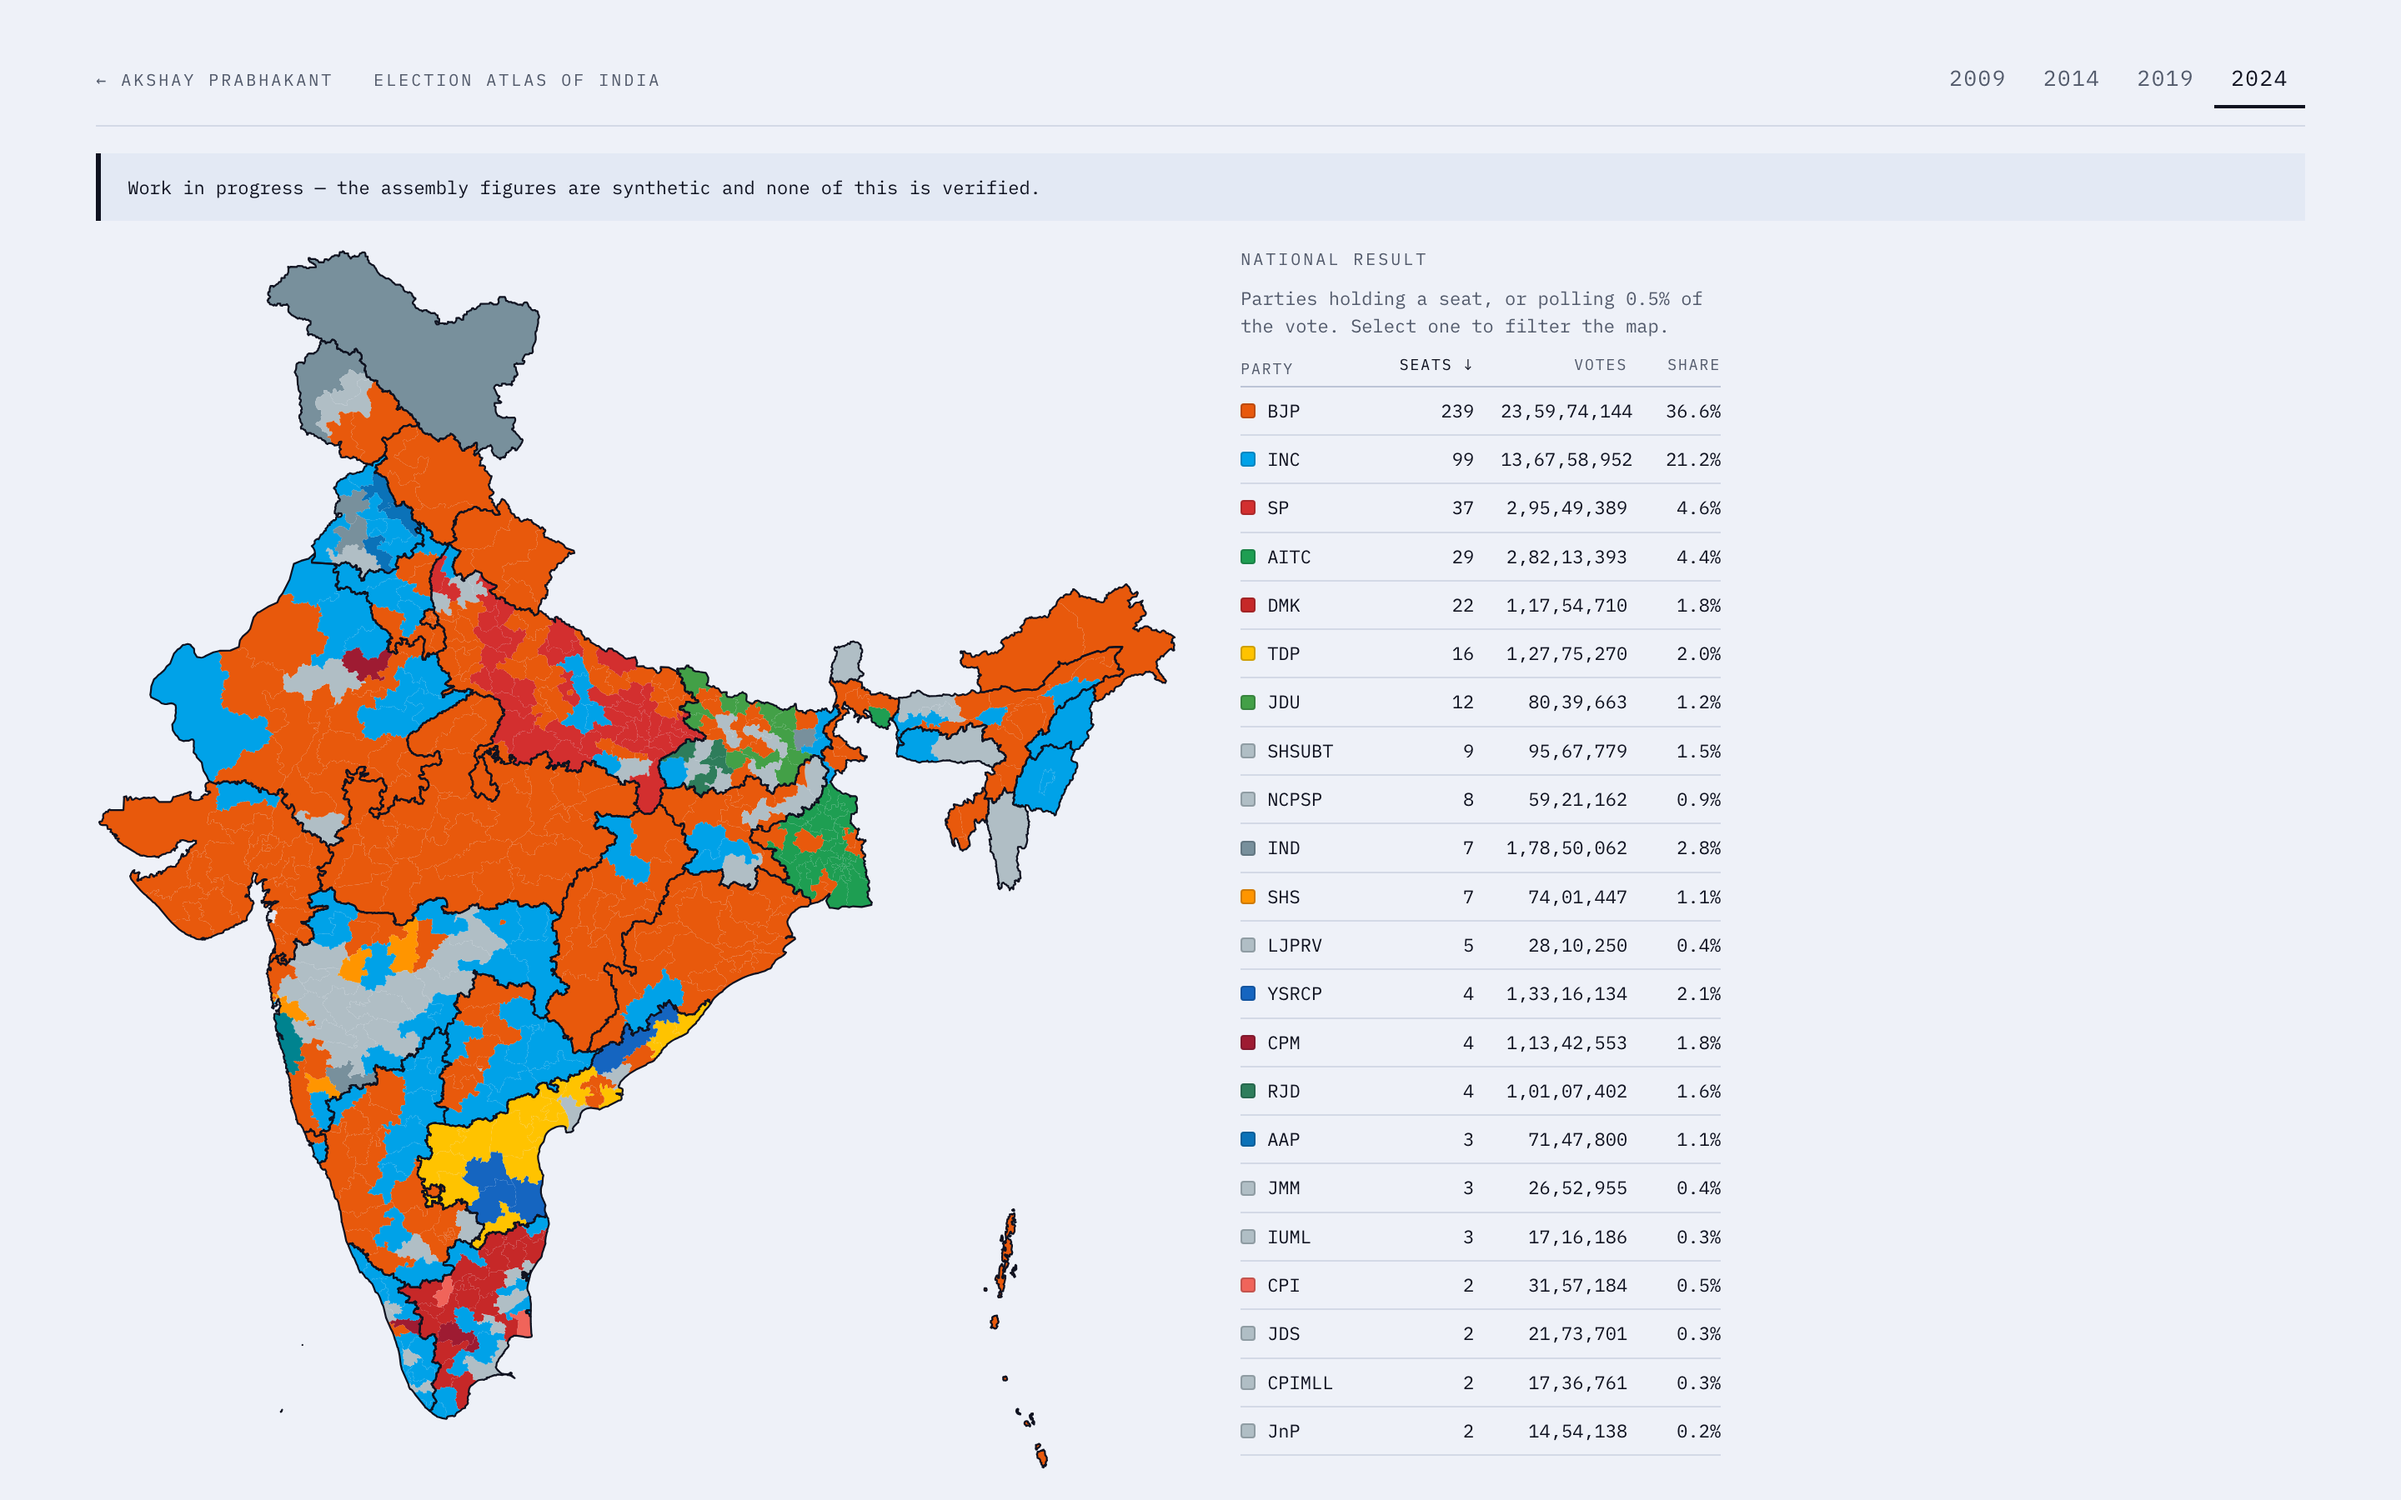
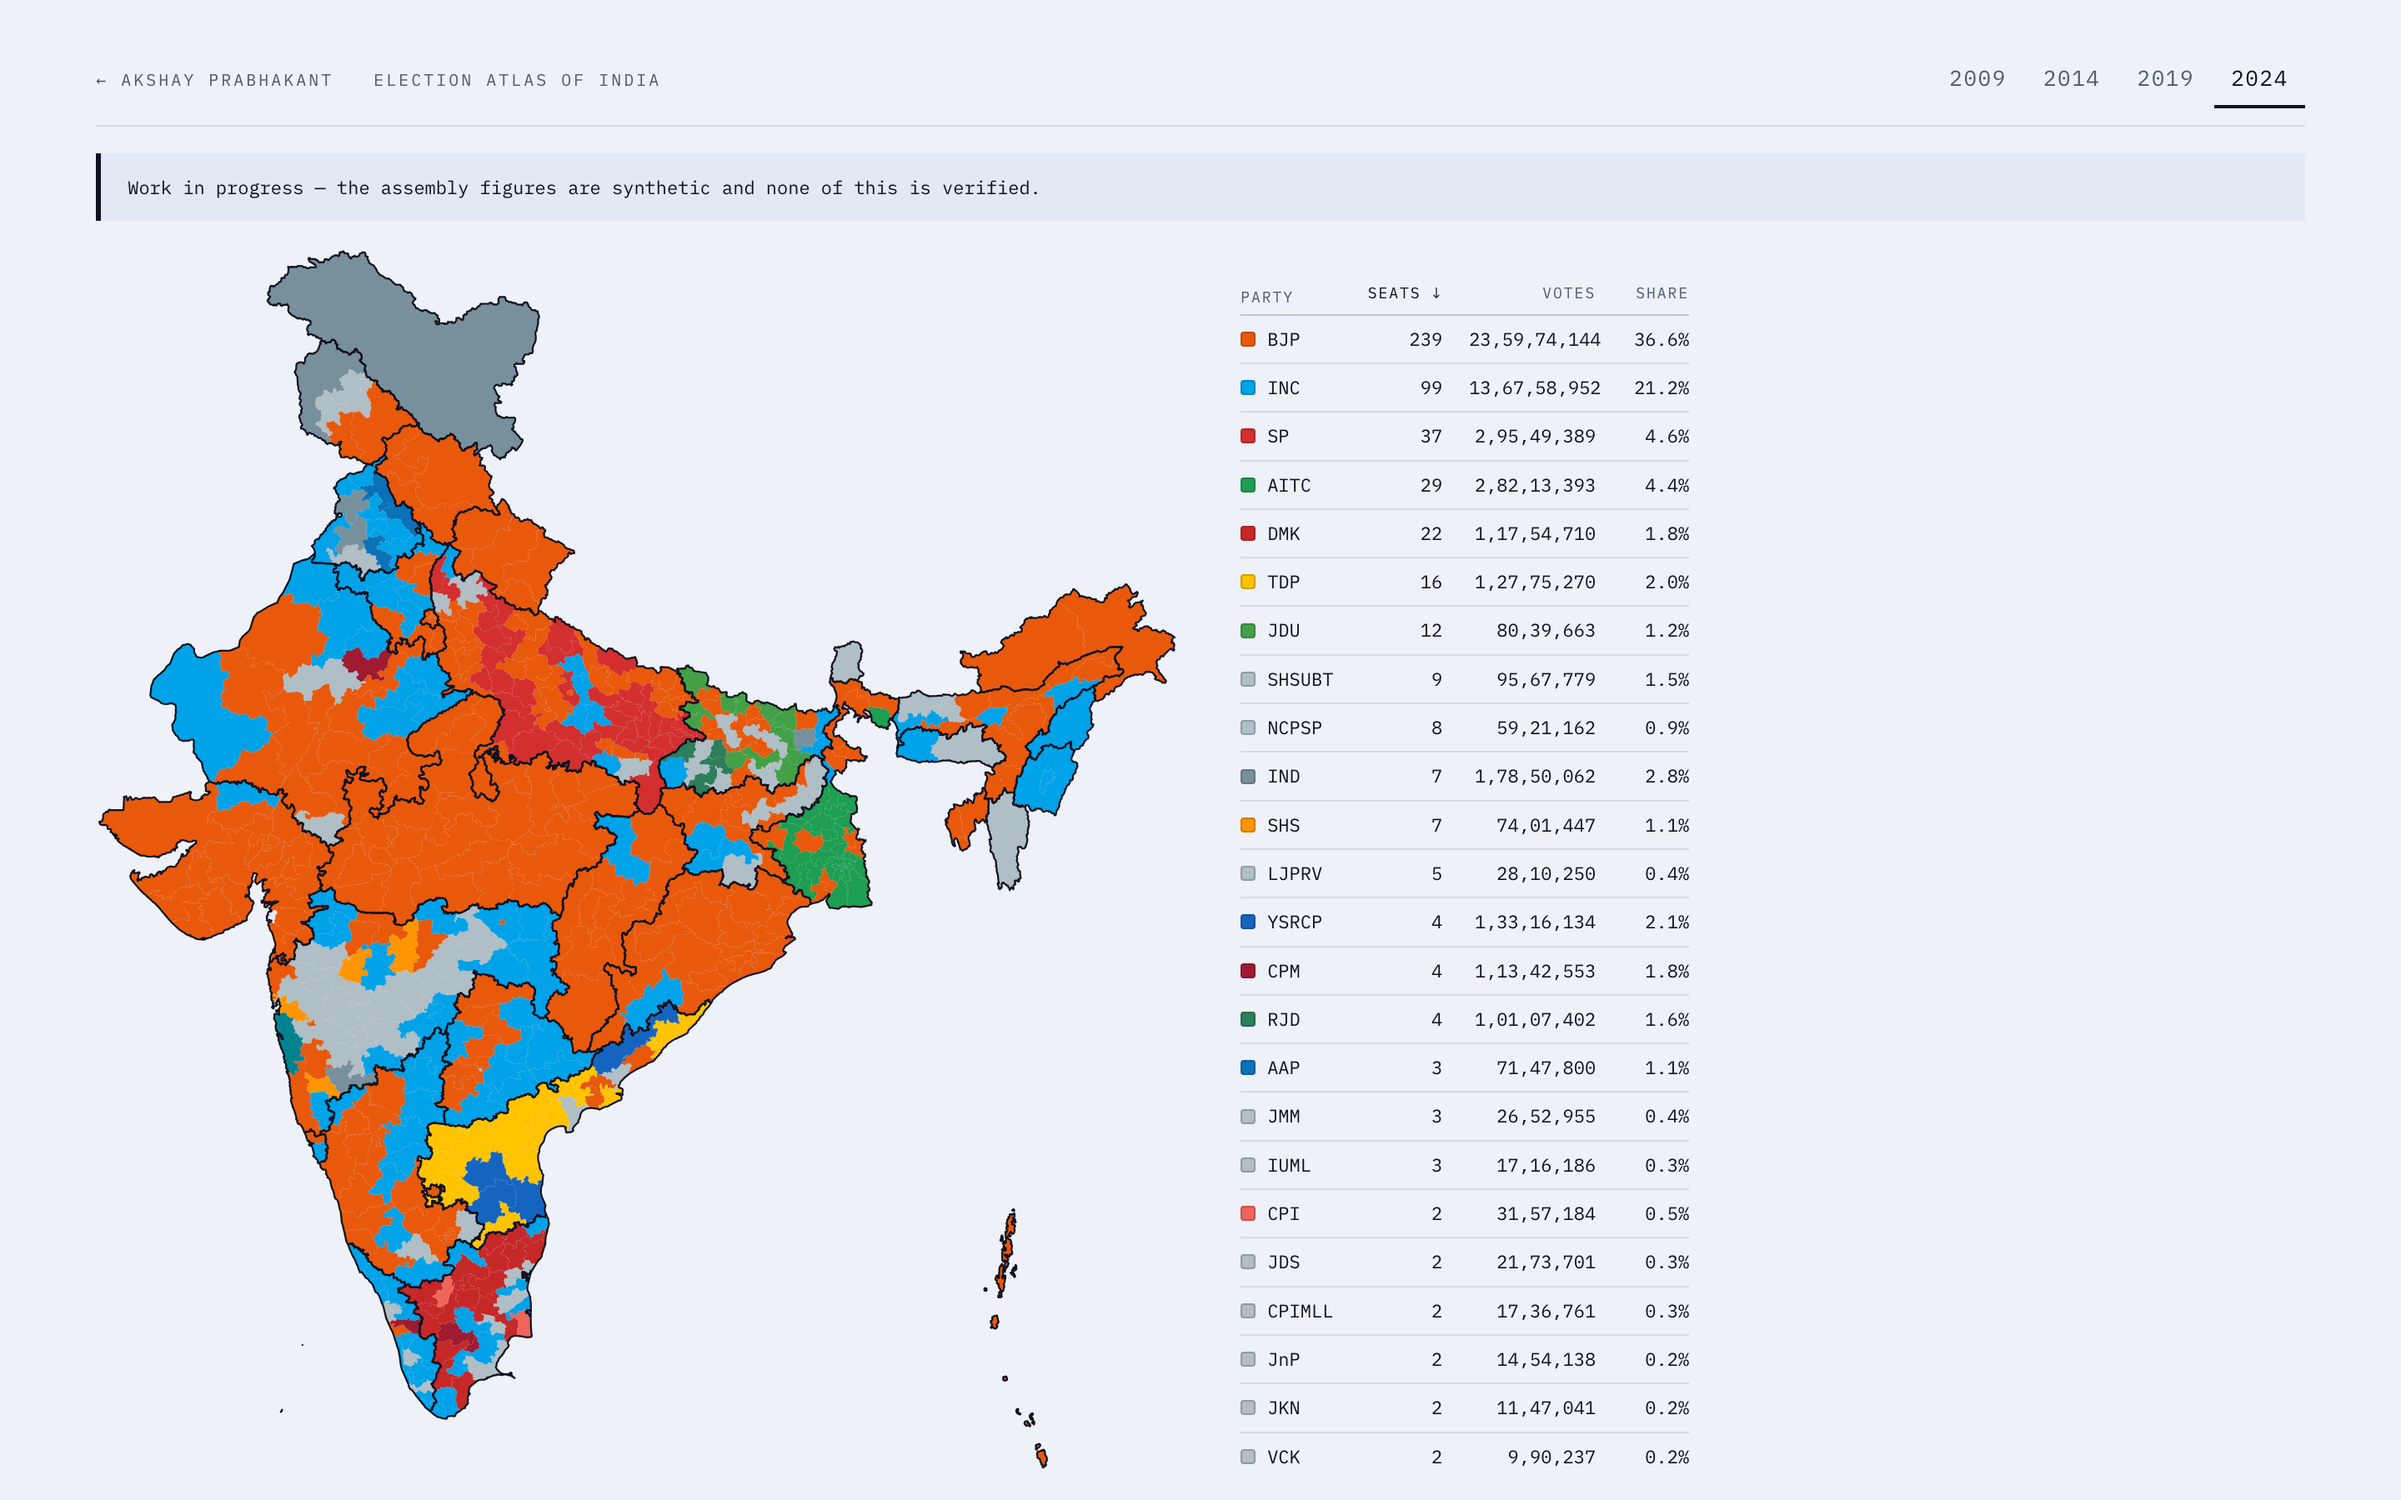
Let the table fade instead of carrying a scrollbar
Two things on the national table.

The "National result" label and the sentence under it are gone. The head now
holds only the two resets, which are hidden until they apply, so it keeps a
reserved height rather than letting the table jump down when one appears.

The scrollbar is gone too, replaced by a scroll fade: a gradient from the page
ground at whichever edge still has content behind it. It is honest rather than
decorative, appearing only where there is more to see — measured, fadeBottom
alone at the top, both mid-scroll, fadeTop alone at the end, so the container
never claims an edge it does not have.

That trades away the position indicator and click-drag scrolling. Wheel,
trackpad and keyboard all still scroll, and focusing the last row's button was
checked to bring it into view, so every row stays reachable. A scrollbar library
was the alternative and is the wrong tool: it replaces native scrolling with a
scripted one, and would cost trackpad momentum and keyboard scroll to solve a
spacing problem that CSS solves in six lines.

Adding the wrapper also exposed that a div had been left unclosed, so the
browser had been auto-closing it and the nesting was wrong.

Changed region(s): [[0.5, 0.1867, 0.7188, 0.9956]]

diff --git a/work/election-atlas/index.html b/work/election-atlas/index.html
@@ -210,9 +210,11 @@ main{flex:1 1 auto;min-height:0;display:flex;flex-direction:column;padding:0 var
  * saturated colour on this page belongs to a party, and a selection highlight
  * in the usual warning orange would read as BJP. */
 .ntable{display:flex;flex-direction:column;min-height:0;font-family:var(--mono)}
-.ntable-head{display:flex;align-items:baseline;justify-content:space-between;
-  gap:var(--s3);padding:0 0 var(--s2)}
-.ntable-head .lbl{margin:0}
+/* The head holds only the two resets, and both are hidden until they apply, so
+   the row keeps a reserved height rather than letting the table jump down the
+   moment a reset appears. */
+.ntable-head{display:flex;align-items:baseline;justify-content:flex-end;
+  gap:var(--s3);min-height:1.25rem;padding:0 0 var(--s2)}
 /* Both resets stay hidden until they apply — but the one that escapes a
    filtered map is the head's loudest control, not its quietest, so clearing a
    selection is set at body scale in --ink while the sort reset stays a label. */
@@ -226,14 +228,31 @@ main{flex:1 1 auto;min-height:0;display:flex;flex-direction:column;padding:0 var
 .reset:focus-visible{outline:2px solid var(--ink);outline-offset:2px;border-radius:2px}
 .reset[hidden]{display:none}
 .reset.loud{font-size:.6875rem;letter-spacing:.04em;text-transform:none;color:var(--ink)}
-/* The contract, stated once and kept live: a reader should never have to
-   discover by accident that these rows drive that map. */
-.ntable-hint{
-  font-family:var(--mono);font-size:.6875rem;line-height:1.5;color:var(--muted);
-  margin:0 0 var(--s2);
+/* No scrollbar. The fades below are the cue instead: a gradient from the page
+   ground at whichever edge still has content behind it, so the rows dissolve
+   rather than being cut by a hard line at the container's edge.
+   What that gives up is the position indicator and click-drag scrolling. Wheel,
+   trackpad and keyboard all still scroll, and tabbing to a row button brings it
+   into view, so every row stays reachable — but it is a real trade, not free. */
+.ntable-view{position:relative;flex:1 1 auto;min-height:0}
+.ntable-scroll{height:100%;overflow-y:auto;overflow-x:hidden;scrollbar-width:none}
+.ntable-scroll::-webkit-scrollbar{display:none}
+/* The fade exists only where there IS more: a container already at its end
+   claims no edge it does not have. */
+.ntable-view::before,.ntable-view::after{
+  content:'';position:absolute;inset-inline:0;height:var(--s6);z-index:2;
+  pointer-events:none;opacity:0;transition:opacity .2s var(--ease);
 }
-.ntable-hint b{font-weight:400;color:var(--ink)}
-.ntable-scroll{flex:1 1 auto;min-height:0;overflow:auto}
+.ntable-view::before{
+  inset-block-start:0;
+  background:linear-gradient(to bottom,var(--paper) 25%,transparent);
+}
+.ntable-view::after{
+  inset-block-end:0;
+  background:linear-gradient(to top,var(--paper) 25%,transparent);
+}
+.ntable-view.more-up::before{opacity:1}
+.ntable-view.more-down::after{opacity:1}
 /* fixed layout: otherwise every column re-measures when a sort arrow changes
    the header label, so the figures shift sideways on each sort. */
 .ntable table{width:100%;border-collapse:collapse;font-size:.6875rem;table-layout:fixed}
@@ -360,27 +379,27 @@ main{flex:1 1 auto;min-height:0;display:flex;flex-direction:column;padding:0 var
       <p class="lbl mapnote" id="mapnote" role="status"></p>
     </figure>
 
-    <section class="ntable" aria-labelledby="ntable-title">
+    <section class="ntable" aria-label="National result">
       <div class="ntable-head">
-        <p class="lbl" id="ntable-title">National result</p>
         <span class="ntable-actions">
           <button class="reset" id="reset-sort" type="button" hidden>default order</button>
           <button class="reset loud" id="clear-sel" type="button" hidden>clear selection</button>
         </span>
       </div>
-      <p class="ntable-hint" id="ntable-hint"></p>
-      <div class="ntable-scroll">
-        <table>
-          <thead>
-            <tr id="ntable-head-row">
-              <th>Party</th>
-              <th aria-sort="none"><button type="button" data-sort="seats" data-label="Seats">Seats</button></th>
-              <th aria-sort="none"><button type="button" data-sort="votes" data-label="Votes">Votes</button></th>
-              <th aria-sort="none"><button type="button" data-sort="share" data-label="Share">Share</button></th>
-            </tr>
-          </thead>
-          <tbody id="ntable-body"></tbody>
-        </table>
+      <div class="ntable-view">
+        <div class="ntable-scroll">
+          <table>
+            <thead>
+              <tr id="ntable-head-row">
+                <th>Party</th>
+                <th aria-sort="none"><button type="button" data-sort="seats" data-label="Seats">Seats</button></th>
+                <th aria-sort="none"><button type="button" data-sort="votes" data-label="Votes">Votes</button></th>
+                <th aria-sort="none"><button type="button" data-sort="share" data-label="Share">Share</button></th>
+              </tr>
+            </thead>
+            <tbody id="ntable-body"></tbody>
+          </table>
+        </div>
       </div>
     </section>
   </section>
@@ -684,7 +703,18 @@ function hideCard() {
 const NAT_DEFAULT = { key: 'seats', dir: -1 };
 let natSort = { ...NAT_DEFAULT };
 const natHead = $('#ntable-head-row'), natBody = $('#ntable-body');
-const natResetBtn = $('#reset-sort'), natClearBtn = $('#clear-sel'), natHint = $('#ntable-hint');
+const natResetBtn = $('#reset-sort'), natClearBtn = $('#clear-sel');
+const natView = $('.ntable-view'), natScroll = $('.ntable-scroll');
+
+/* With no scrollbar, the fade is the only cue that there is more below — so it
+   has to be honest, appearing at an edge only while content is actually hidden
+   behind it, and vanishing at both ends. */
+function updateFades() {
+  if (!natView || !natScroll) return;
+  const max = natScroll.scrollHeight - natScroll.clientHeight;
+  natView.classList.toggle('more-up', natScroll.scrollTop > 2);
+  natView.classList.toggle('more-down', natScroll.scrollTop < max - 2);
+}
 
 /* 743 party codes polled nationally in 2024, so a table of all of them is a
    dump rather than a readout — but a capped first page with a "+N more"
@@ -730,12 +760,8 @@ function renderNational() {
   // the whole tbody dims its left-out rows, so the table and the map agree
   natBody.classList.toggle('has-sel', selection.size > 0);
   natClearBtn.hidden = selection.size === 0;
-  /* The contract and its present state in one line: a reader should not have to
-     discover that these rows drive that map, nor wonder whether a filter is on. */
-  natHint.innerHTML = selection.size
-    ? `<b>${selection.size}</b> selected — the map shows only these.`
-    : `Parties holding a seat, or polling 0.5% of the vote. Select one to filter the map.`;
   paintNatHead();
+  updateFades();
 }
 
 function toggleParty(code) {
@@ -746,6 +772,7 @@ function toggleParty(code) {
 
 function bindTable() {
   if (!natBody) return;
+  natScroll.addEventListener('scroll', updateFades, { passive: true });
   natBody.addEventListener('pointerover', e => {
     const tr = e.target.closest('tr[data-party]');
     if (!tr) return;
